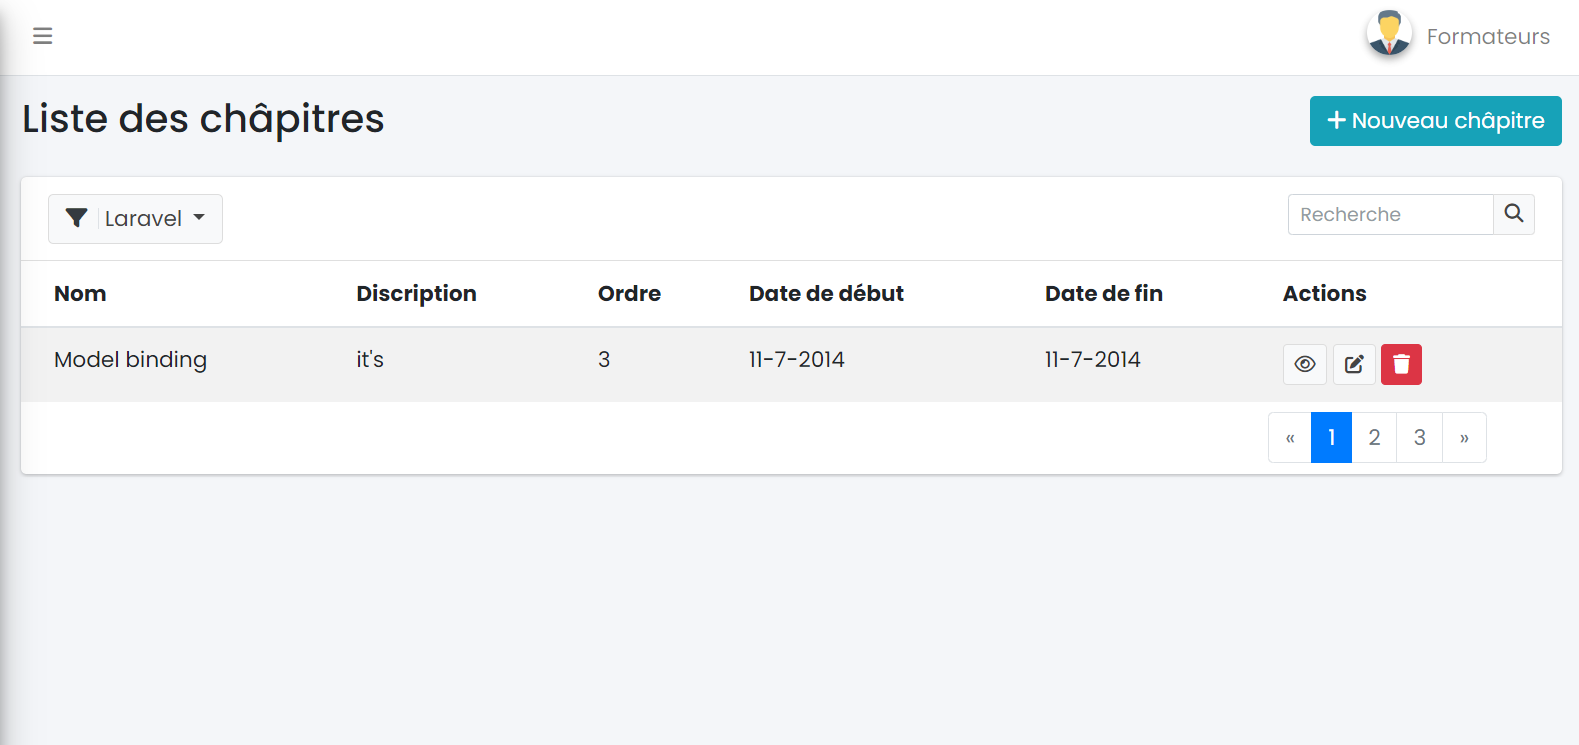
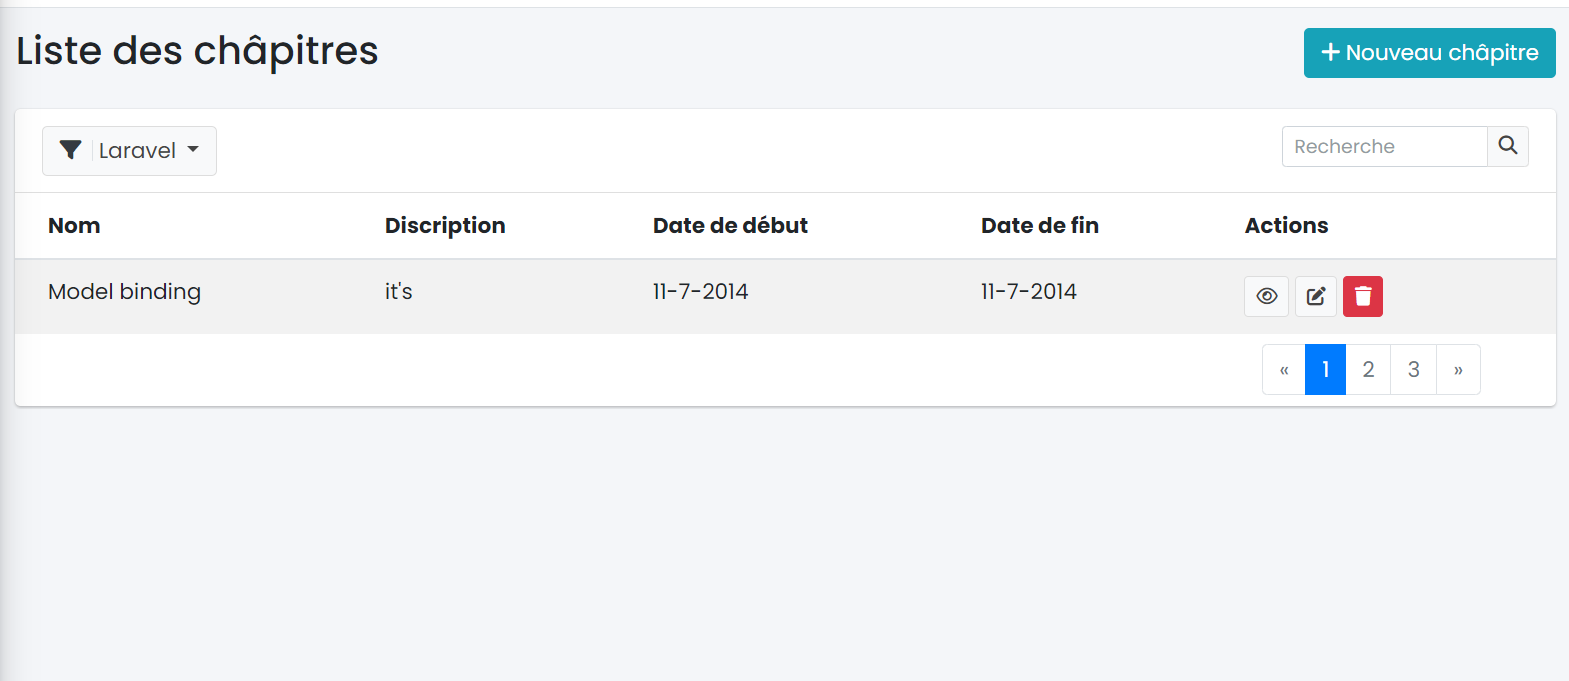
update

diff --git a/maquettes/view/chapitres/form.php b/maquettes/view/chapitres/form.php
@@ -14,13 +14,7 @@
                                             <input name="description" type="text" class="form-control" id="description" placeholder="Entrez la description" value="it's">
                                         </div>
                                     
-                                       
-                                    
-                                        <div class="form-group">
-                                            <label for="ordre">Ordre</label>
-                                            <input name="ordre" type="number" class="form-control" id="ordre" placeholder="Entrez l'ordre" value="3">
-                                        </div>
-
+                                
 
 
 

diff --git a/docs/maquettes/maquettes.md b/docs/maquettes/maquettes.md
@@ -7,12 +7,6 @@ order: 9
 {:class="sectionHeader"}
 <!-- new slide -->
 
-## Login
-
-![login](/lab-crud-standard-yasmine/maquettes/images/login.png){:width="999px"}*figure: login*
-
-<!-- new slide -->
-
 ## Page d'accueil
 
 ![index](/lab-crud-standard-yasmine/maquettes/images/index-chapitre.png){:width="1000px"}*figure: index*
